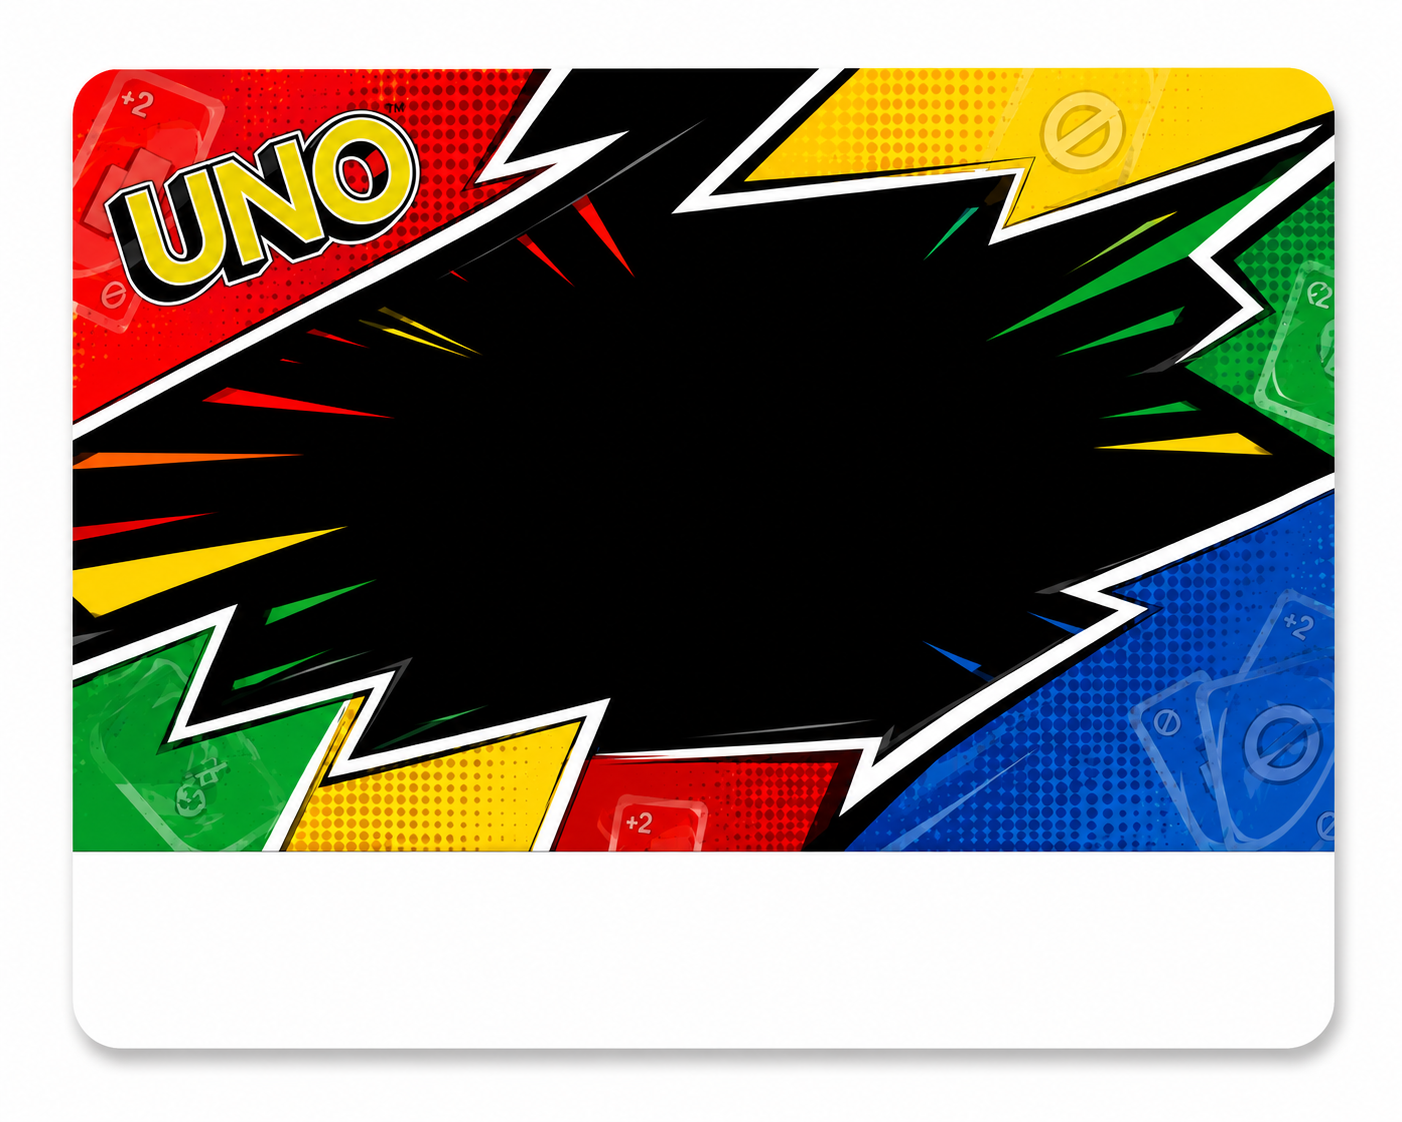
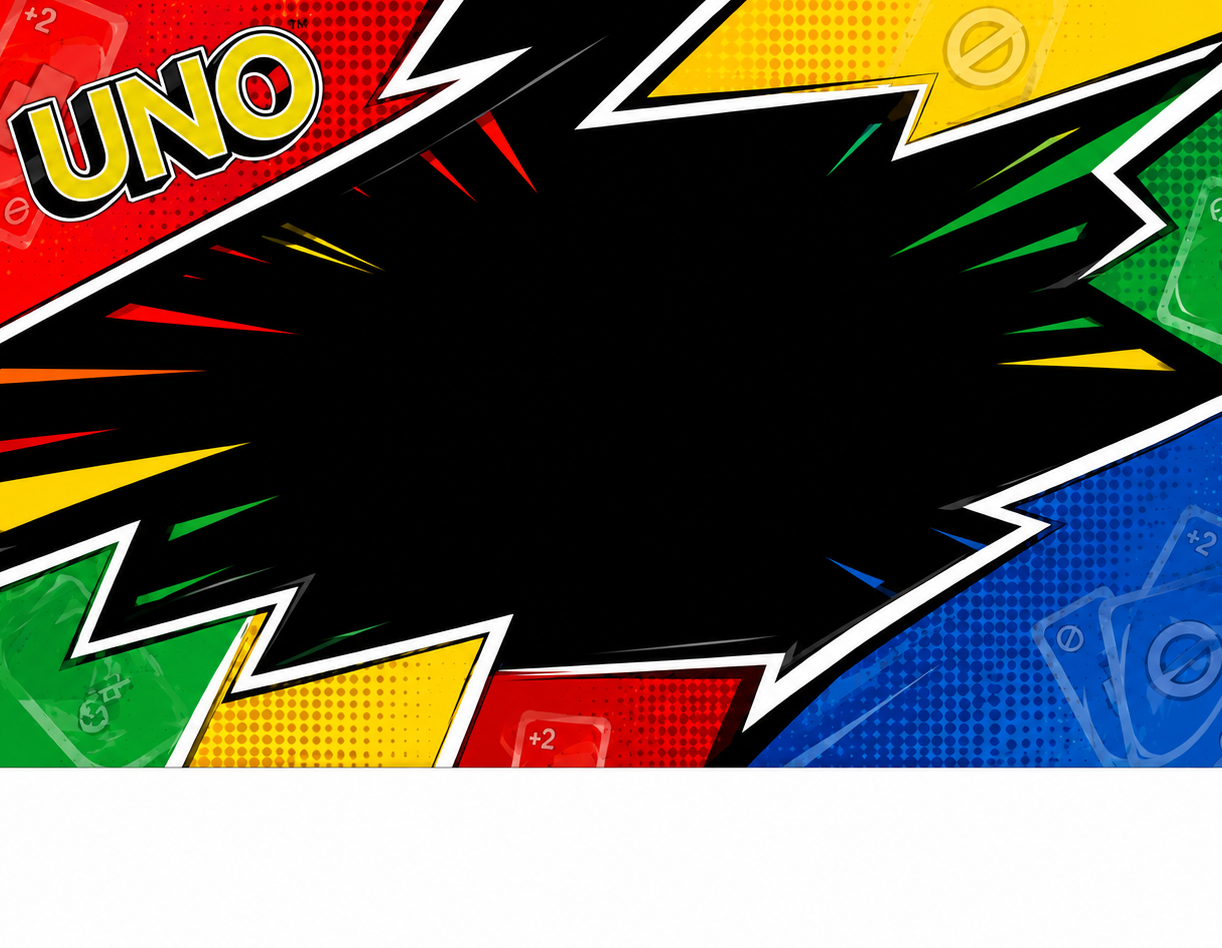
Update UNO and Zombie theme image cache parameter and bottom typography to Bangers

diff --git a/src/components/Home.css b/src/components/Home.css
@@ -741,7 +741,7 @@
 .card-box.uno-theme,
 .card.uno-theme {
   position: relative;
-  background-image: url('/UNO.png');
+  background-image: url('/UNO.png?v=2');
   background-size: cover;
   background-position: center;
   background-repeat: no-repeat;
@@ -870,35 +870,26 @@
 }
 
 .card-box.uno-theme .card-business-label,
-.card.uno-theme .card-business-label {
-  position: absolute;
-  left: 7%;
-  bottom: 7%;
-  font-family: "Montserrat", sans-serif;
-  font-size: 13px;
-  font-weight: 800;
-  letter-spacing: 0.24em;
+.card.uno-theme .card-business-label,
+.card-box.uno-theme .card-business-name,
+.card.uno-theme .card-business-name {
+  font-family: "Bangers", cursive, sans-serif;
+  font-size: 17px;
+  font-weight: 400;
+  line-height: 1.1;
+  letter-spacing: 0.03em;
   text-transform: uppercase;
-  color: #E31B23;
+  color: #111111;
+  text-shadow: none;
   margin: 0;
 }
 
 .card-box.uno-theme .card-business-name,
 .card.uno-theme .card-business-name {
-  position: absolute;
-  right: 7%;
-  bottom: 7%;
   text-align: right;
-  font-family: "Inter", sans-serif;
-  font-size: 20px;
-  font-weight: 700;
-  line-height: 1.1;
-  letter-spacing: -0.02em;
-  color: #111111;
   max-width: 60%;
   white-space: normal;
   word-break: break-word;
-  margin: 0;
 }
 
 /* ==========================================================================
@@ -908,7 +899,7 @@
 .card-box.zombie-theme,
 .card.zombie-theme {
   position: relative;
-  background-image: url('/Zombie.png');
+  background-image: url('/Zombie.png?v=2');
   background-size: cover;
   background-position: center;
   background-repeat: no-repeat;
@@ -1037,35 +1028,26 @@
 }
 
 .card-box.zombie-theme .card-business-label,
-.card.zombie-theme .card-business-label {
-  position: absolute;
-  left: 7%;
-  bottom: 7%;
-  font-family: "Oswald", sans-serif;
-  font-size: 13px;
-  font-weight: 700;
-  letter-spacing: 0.24em;
+.card.zombie-theme .card-business-label,
+.card-box.zombie-theme .card-business-name,
+.card.zombie-theme .card-business-name {
+  font-family: "Bangers", cursive, sans-serif;
+  font-size: 17px;
+  font-weight: 400;
+  line-height: 1.1;
+  letter-spacing: 0.03em;
   text-transform: uppercase;
-  color: #71951B;
+  color: #111111;
+  text-shadow: none;
   margin: 0;
 }
 
 .card-box.zombie-theme .card-business-name,
 .card.zombie-theme .card-business-name {
-  position: absolute;
-  right: 7%;
-  bottom: 7%;
   text-align: right;
-  font-family: "Inter", sans-serif;
-  font-size: 20px;
-  font-weight: 700;
-  line-height: 1.1;
-  letter-spacing: -0.02em;
-  color: #171812;
   max-width: 60%;
   white-space: normal;
   word-break: break-word;
-  margin: 0;
 }
 
 /* Responsive Font Scaling for Smaller Cards & Mobile Viewports */
